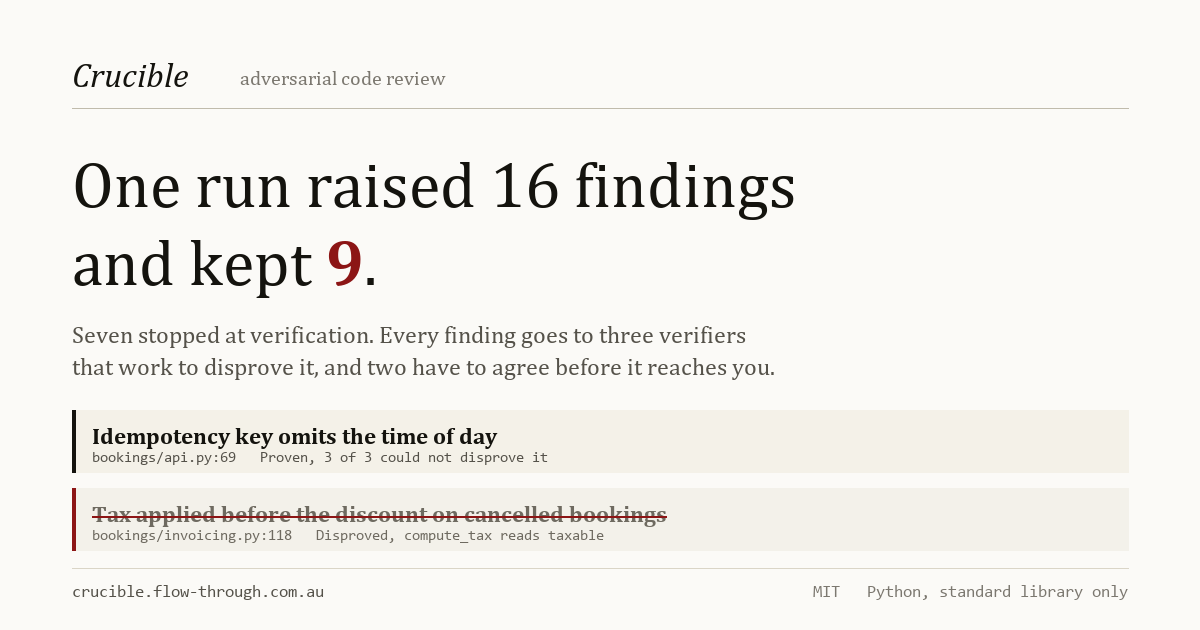
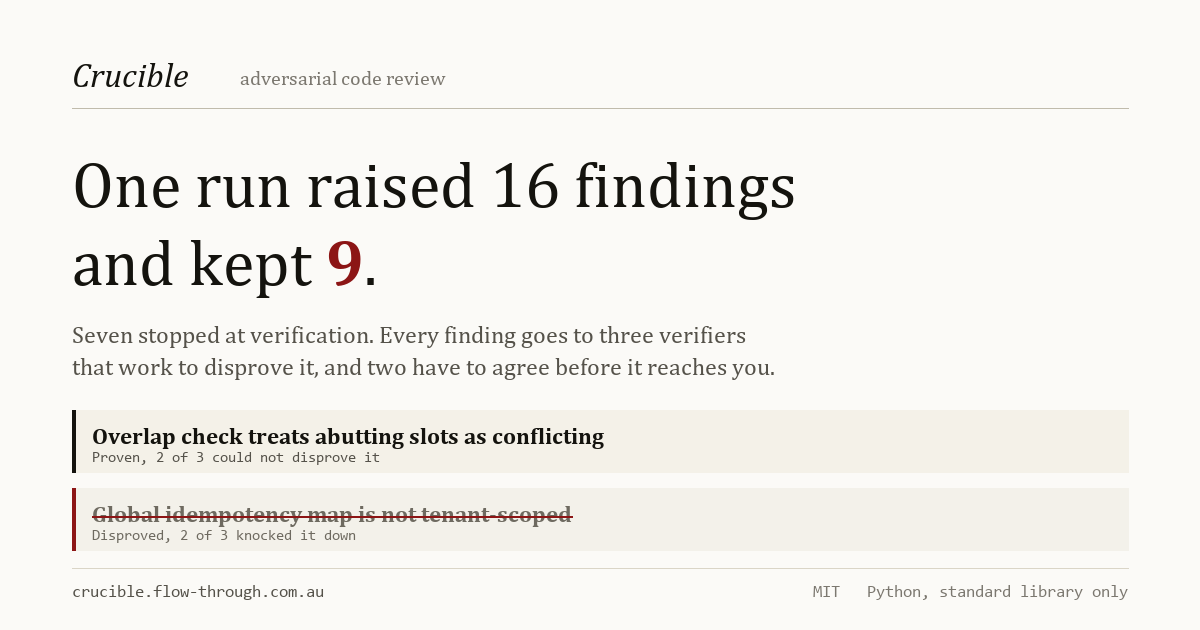
the scratch directory leaves the sandbox, and three money paths close
A preflight audit over the whole session found five things worth stopping for,
and one of them was the same defect this project is built to catch.

The policy refuses `python -c` because that flag, in its own words, reaches
past every other limit in it. Scratch lived at workspace/.crucible-scratch,
inside the tree run_tests is scoped to, so an agent could write a .py file and
ask the permitted interpreter to run it: reads outside the workspace, writes
past the size ceiling, edits to the code under review, and a socket, all
through a door the guard was not watching. Verified by running both forms
through the real policy. Scratch is now a sibling of the checkout, so
run_tests can only execute code that was already in it, and the answer key
carve-out stops being the only thing standing between a hunter and the
answers. Checks fail if scratch moves back inside.

POST /api/chat had no caller left after the chat pane retired, and in public
mode no session cookie is ever issued, so every request minted a fresh
identity with a fresh forty cent budget on the operator's key, and none of it
was booked against the daily ceiling. Both routes and the streaming handler
are gone. The module and its checks stay, so the capability is unexposed
rather than lost.

The per-run ceiling a visitor chose when attaching a key was stored, shown
back to them, and then replaced by the deployment default, because the run
request carries no figure of its own. Someone asking for one cent got a
[…]

Changed region(s): [[0.0617, 0.7841, 0.555, 0.8746], [0.0617, 0.6635, 0.5242, 0.754]]

diff --git a/web/index.html b/web/index.html
@@ -112,17 +112,17 @@
             <span><b>9</b> proven</span>
           </div>
           <div class="still-claim">
-            <span class="st">Idempotency key omits the time of day</span>
-            <span class="wh">bookings/api.py:69 &nbsp; high</span>
-            <span class="ru">Proven &nbsp;<i>3 of 3 could not disprove it</i></span>
+            <span class="st">Overlap check treats abutting slots as conflicting</span>
+            <span class="ru">Proven &nbsp;<i>2 of 3 could not disprove it</i></span>
           </div>
           <div class="still-claim dead">
-            <span class="st">Tax applied before the discount on cancelled bookings</span>
-            <span class="wh">bookings/invoicing.py:118 &nbsp; medium</span>
-            <span class="ru">Disproved &nbsp;<i>compute_tax reads taxable, not subtotal</i></span>
+            <span class="st">Global idempotency map is not tenant-scoped</span>
+            <span class="ru">Disproved &nbsp;<i>2 of 3 knocked it down</i></span>
           </div>
-          <figcaption id="still-cap">The recorded run, as the page shows it.
-            The struck line is a finding the verifiers took apart.</figcaption>
+          <figcaption id="still-cap">Two findings from that run, copied out of
+            <a href="https://github.com/BlakeR-M/crucible/tree/main/docs/evidence">its
+            published ledger</a> with the votes they got. The struck line is one
+            the verifiers took apart.</figcaption>
         </figure>
         <div id="notice-slot"></div>
         <form class="repo" id="repo" autocomplete="off">

diff --git a/crucible/server.py b/crucible/server.py
@@ -526,7 +526,16 @@ def start_run(task_key: str, repo_url: str | None = None,
         return None, (f"the daily ceiling of ${DAILY_CEILING_USD:.2f} is spent. "
                       f"It resets at midnight UTC. Attach a key of your own "
                       f"to run against a live model now.")
-    ceiling = byo_ceiling(ceiling_usd) if visitor else RUN_CEILING_USD
+    # The ceiling a visitor chose when attaching their key, since the run
+    # request carries no figure of its own. Without this fallback the stored
+    # number was shown back to them and then quietly replaced by the
+    # deployment default: someone asking for a one cent ceiling got a dollar,
+    # on their own key, while the page told them otherwise.
+    if visitor:
+        wanted = ceiling_usd if ceiling_usd not in (None, "") else visitor.get("ceiling_usd")
+        ceiling = byo_ceiling(wanted)
+    else:
+        ceiling = RUN_CEILING_USD
 
     def finish(reason: str, spent: float = 0.0) -> None:
         """Close a run out so nothing is left hanging.
@@ -831,17 +840,6 @@ class Handler(BaseHTTPRequestHandler):
             self._json(200, {"run_id": REGISTRY.newest()})
             return
 
-        if path == "/api/chat/opening":
-            from .chat import ChatAgent  # noqa: F401  (imported for its module)
-
-            agent = CHATS.get(self._sid())
-            self._json(200, {
-                "opening": agent.opening(),
-                "ceiling_usd": CHAT_CEILING_USD,
-                "spent_usd": round(agent.budget.spent_usd, 5),
-            })
-            return
-
         if path == "/api/tasks":
             self._json(200, {"tasks": [{"key": k, "label": v}
                                        for k, v in TASKS.items()],
@@ -920,24 +918,6 @@ class Handler(BaseHTTPRequestHandler):
             self._json(401, {"error": "not signed in"})
             return
 
-        if route.path == "/api/chat":
-            try:
-                payload = json.loads(raw.decode("utf-8")) if raw else {}
-            except json.JSONDecodeError:
-                self._json(400, {"error": "bad json"})
-                return
-            message = str(payload.get("message", "")).strip()
-            if not message:
-                self._json(400, {"error": "say something"})
-                return
-            # Bounded before it reaches a model. A visitor pasting a novel is
-            # an unbounded prompt on somebody else's key.
-            if len(message) > 2000:
-                self._json(413, {"error": "that message is too long"})
-                return
-            self._chat(self._sid(), message)
-            return
-
         if route.path == "/api/run":
             try:
                 payload = json.loads(raw.decode("utf-8")) if raw else {}
@@ -1006,54 +986,6 @@ class Handler(BaseHTTPRequestHandler):
         that somehow arrives without the random one still gets a conversation
         rather than an error, and a fresh string rather than a shared one."""
         return self._cookie("crucible_sid") or f"anon-{secrets.token_urlsafe(12)}"
-
-    def _chat(self, sid: str, message: str) -> None:
-        """One conversational turn, streamed as it happens.
-
-        The agent's tool calls and refusals reach the browser while it is still
-        thinking, which is most of the point: a visitor watching it decide to
-        go and read the run is watching the thing work, not waiting on a
-        spinner.
-        """
-        agent = CHATS.get(sid)
-        kind = CHATS.kind(sid)
-        redact = redactor_for(agent.provider)
-        CHATS.reap()
-        KEYS.reap()
-
-        self.send_response(200)
-        self.send_header("Content-Type", "text/event-stream; charset=utf-8")
-        self.send_header("Cache-Control", "no-cache, no-transform")
-        self.send_header("X-Accel-Buffering", "no")
-        self.send_header("Connection", "close")
-        self.close_connection = True
-        self.end_headers()
-
-        def push(event: dict) -> bool:
-            try:
-                event = redact.scrub_value(event)
-                self.wfile.write(f"data: {json.dumps(event)}\n\n".encode("utf-8"))
-                self.wfile.flush()
-                return True
-            except (BrokenPipeError, ConnectionResetError, OSError):
-                return False
-
-        spent_before = agent.budget.spent_usd
-        try:
-            for event in agent.stream(message):
-                if not push(event):
-                    return
-        except Exception as exc:  # noqa: BLE001 - the visitor must be told
-            push({"kind": "chat_error",
-                  "text": redact.scrub(f"{type(exc).__name__}: {exc}")[:300]})
-        finally:
-            if kind == "visitor":
-                KEYS.add_spend(sid, agent.budget.spent_usd - spent_before)
-            push({"kind": "chat_done",
-                  "spent_usd": round(agent.budget.spent_usd, 5),
-                  "ceiling_usd": CHAT_CEILING_USD,
-                  "provider_kind": kind,
-                  "session_spend_usd": KEYS.status(sid).get("spent_usd", 0.0)})
 
     def _stream(self, run_id: str) -> None:
         subscription = REGISTRY.subscribe(run_id)

diff --git a/crucible/providers.py b/crucible/providers.py
@@ -19,6 +19,7 @@ import os
 import threading
 import time
 import urllib.error
+import urllib.parse
 import urllib.request
 from dataclasses import dataclass, field
 from enum import Enum
@@ -108,11 +109,17 @@ RATES: dict[str, tuple[float, float]] = {
     "deepseek-v4-flash": (0.44, 1.32),
 
     # OpenRouter routes one model id across several upstream hosts at
-    # differing rates, so these are rounded up from the dearest seen.
+    # differing rates, and which host serves a given call is theirs to choose.
+    # These are the dearest route each id can land on, at standing rather than
+    # promotional rates. Taking the headline figure instead means pricing the
+    # discounted route and reserving a fraction of what the call can bill:
+    # google/gemini-3.7-flash advertises 0.375 on a discounted Vertex route
+    # while the same id also serves from AI Studio at four times that once the
+    # introductory rate lapses.
     "anthropic/claude-opus-5": (5.00, 25.00),
-    "deepseek/deepseek-v4-pro-0813": (1.19, 3.57),
-    "google/gemini-3.7-flash": (0.38, 1.88),
-    "qwen/qwen3.8-2.4t-a95b": (2.00, 6.00),
+    "deepseek/deepseek-v4-pro-0813": (1.32, 3.96),
+    "google/gemini-3.7-flash": (1.50, 7.50),
+    "qwen/qwen3.8-2.4t-a95b": (2.50, 7.50),
 }
 
 # Stand-ins that reach no vendor and bill nothing. Named explicitly, because
@@ -403,9 +410,20 @@ class OpenAIProvider:
     # trust. One transposed line in a config file, `metered = false` left over
     # from a local experiment above a base_url pointing back at a vendor, and
     # the only limit on the run is how long someone leaves it running.
-    BILLED_HOSTS = ("api.openai.com", "api.anthropic.com", "api.mistral.ai",
-                    "api.groq.com", "api.deepseek.com", "api.together.xyz",
-                    "openrouter.ai", "generativelanguage.googleapis.com")
+    #
+    # Every host in the registry is folded in automatically, because keeping a
+    # second hand-written list in step with it failed the first time it was
+    # tested: xAI was added to the shelf with its base URL and its own model
+    # table, and the guard never heard about it, so `metered = false` over
+    # api.x.ai was accepted and priced every call at zero.
+    BILLED_HOSTS = tuple(sorted({
+        "api.openai.com", "api.anthropic.com", "api.mistral.ai",
+        "api.groq.com", "api.deepseek.com", "api.together.xyz",
+        "openrouter.ai", "generativelanguage.googleapis.com",
+    } | {
+        (urllib.parse.urlsplit(spec.base_url).hostname or "").lower()
+        for spec in PROVIDERS.values()
+    }))
     BILLED_SUFFIXES = (".openai.azure.com", ".api.cognitive.microsoft.com")
 
     def _refuse_unmetered_billed_host(self) -> None:

diff --git a/tests/test_byok.py b/tests/test_byok.py
@@ -254,6 +254,24 @@ def validation_checks() -> None:
     check("two hundred stand-in calls stay clear of a 60 cent ceiling",
           tight.spent_usd == 0.0, f"spent {tight.spent_usd}")
 
+    # Declaring a run unmetered prices every call at zero, so BudgetExceeded
+    # can never fire and the ceiling is off completely. Every vendor the arena
+    # ships a base URL for has to be refused that declaration. The guard used
+    # to carry its own hand-written host list, and the first vendor added
+    # after it was written went missing from it.
+    from crucible.providers import OpenAIProvider as _Provider
+
+    unguarded = []
+    for name, spec in byok.PROVIDERS.items():
+        try:
+            _Provider("k" * 20, dict(spec["defaults"]),
+                      base_url=spec["base_url"], metered=False)
+            unguarded.append(name)
+        except ValueError:
+            pass
+    check("no vendor on the shelf can be declared unmetered",
+          not unguarded, str(unguarded))
+
     held = server.KEYS.get(sid)
     check("the table holds the key in memory with the session's expiry",
           held is not None and held["key"] == GOOD_KEY
@@ -298,6 +316,12 @@ def run_checks(tmp: Path) -> None:
           finished.get("run_id") == body["run_id"], str(finished.get("run_id")))
     check("and the ledger file sits under that name",
           (server.RUNS / f"{body['run_id']}.jsonl").is_file())
+    # Bound to what a whole run actually reported, rather than to the price of
+    # a hardcoded model name. The stand-in reaches no vendor, so a free run
+    # that books anything means the model name it settles under has drifted
+    # away from the free list and is being charged the table maximum again.
+    check("a stand-in run spends nothing, end to end",
+          finished["spend_usd"] == 0.0, str(finished["spend_usd"]))
 
     section("run: with a key, the visitor's provider")
     status, body = server.admit_key({"provider": "gemini", "api_key": GOOD_KEY}, sid, cookie)

diff --git a/tests/test_core.py b/tests/test_core.py
@@ -80,6 +80,33 @@ def policy_checks(tmp: Path) -> None:
     check("a tool with no path scope refuses a path outright",
           not Policy("p", {"ping": ToolRule()}).check("ping", {"path": str(work)}))
 
+    section("policy: an allowlisted binary cannot be handed new code to run")
+    # The policy refuses `python -c` because that flag reaches past every other
+    # limit in it. Writing a script into scratch and running it arrives at the
+    # same place, so scratch lives beside the checkout rather than inside the
+    # tree run_tests executes. Put scratch back under the workspace and these
+    # fail.
+    from crucible.tools import scratch_dir as _scratch_dir
+
+    runnable = review_policy(work, run_tests=True)
+    scratch = _scratch_dir(work)
+    check("scratch sits outside the workspace",
+          work not in scratch.parents and scratch != work, str(scratch))
+    check("the policy scopes writes to that same directory",
+          bool(runnable.check("write_scratch",
+                              {"path": str(scratch / "note.txt"), "content": "x"})))
+    check("a script written to scratch cannot then be run",
+          not runnable.check("run_tests",
+                             {"command": f'python "{scratch / "repro.py"}"'}))
+    check("and the refusal says the file is outside the workspace",
+          "workspace" in runnable.check(
+              "run_tests", {"command": f'python "{scratch / "repro.py"}"'}).reason)
+    check("writing into the checkout itself is still refused",
+          not runnable.check("write_scratch",
+                             {"path": str(work / "evil.py"), "content": "x"}))
+    check("the checkout's own tests still run",
+          bool(runnable.check("run_tests", {"command": "python -m pytest"})))
+
     section("policy: the answers are out of reach of the hunters")
     # The demo workspace carries the list of planted defects, and a hunter that
     # reads it scores full marks having found nothing. Removing the carve-out

diff --git a/crucible/tools.py b/crucible/tools.py
@@ -51,6 +51,26 @@ SUBPROCESS_ENV_KEEP = frozenset({
 SECRET_SUFFIXES = ("_KEY", "_TOKEN", "_SECRET", "_PASS", "_PASSWORD")
 
 
+def scratch_dir(workspace: Path) -> Path:
+    """Where an agent may write, which is beside the checkout and never in it.
+
+    This used to live at workspace/.crucible-scratch, inside the tree that
+    run_tests is scoped to, and that combination handed back every capability
+    the policy takes away. The policy refuses `python -c` because, as its own
+    comment says, that flag reaches past every other limit. Writing a .py file
+    into scratch and asking the permitted interpreter to run it arrives at the
+    same place by a door the guard was not watching: reads outside the
+    workspace, writes past the size ceiling, edits to the code under review,
+    and a socket.
+
+    A sibling directory keeps scratch writable and keeps it out of every
+    execution scope, so run_tests can only run code that was already in the
+    checkout. That is the grant the policy docstring describes.
+    """
+    workspace = Path(workspace).resolve()
+    return workspace.parent / (workspace.name + ".crucible-scratch")
+
+
 def _is_hidden_within(entry: Path, root: Path) -> bool:
     """Whether a path is hidden by its position inside the workspace.
 
@@ -154,7 +174,7 @@ class Toolbox:
         self.policy = policy
         self.ledger = ledger
         self.agent_id = agent_id
-        self.scratch = self.workspace / ".crucible-scratch"
+        self.scratch = scratch_dir(self.workspace)
         # Shared with every per-agent view, so the run's totals are the run's
         # and not just whatever the unused parent happened to do. Each agent
         # gets its own Toolbox but they are all one run, and a report that said

diff --git a/crucible/policy.py b/crucible/policy.py
@@ -55,6 +55,18 @@ PERMITTED_MODULES = {"pytest", "unittest", "nose2", "green"}
 SCORING_FILES = (".answer_key.json",)
 
 
+def _scratch_scope(workspace: Path) -> Path:
+    """The scratch directory, named here without importing tools.
+
+    tools imports policy, so policy cannot import tools back. The shape is
+    asserted against tools.scratch_dir by a check, which is what keeps the two
+    from drifting apart into a policy that scopes one directory while the
+    toolbox writes to another.
+    """
+    workspace = Path(workspace).resolve()
+    return workspace.parent / (workspace.name + ".crucible-scratch")
+
+
 def _as_list(value) -> list:
     """A list from whatever was recorded, refusing to iterate a bare string."""
     if value is None:
@@ -377,8 +389,12 @@ def review_policy(workspace: Path, *, run_tests: bool = True) -> Policy:
         "list_dir": ToolRule(path_scopes=[workspace]),
         "search": ToolRule(path_scopes=[workspace],
                            denied_names=list(SCORING_FILES)),
+        # Beside the checkout rather than inside it. Scratch within the tree
+        # that run_tests executes meant an agent could write a script and run
+        # it, which returns every capability this policy takes away. See
+        # tools.scratch_dir.
         "write_scratch": ToolRule(
-            path_scopes=[workspace / ".crucible-scratch"], max_bytes=200_000
+            path_scopes=[_scratch_scope(workspace)], max_bytes=200_000
         ),
     }
     if run_tests:

diff --git a/tests/test_cli.py b/tests/test_cli.py
@@ -34,6 +34,7 @@ sys.path.insert(0, str(Path(__file__).resolve().parent.parent))
 from crucible import config as cfg  # noqa: E402
 from crucible.ledger import GENESIS, Ledger, _digest  # noqa: E402
 from crucible.policy import Policy, review_policy  # noqa: E402
+from crucible.tools import scratch_dir  # noqa: E402
 from crucible.providers import (  # noqa: E402
     DEFAULT_BASE_URL, RATES, Budget, BudgetExceeded, OpenAIProvider, Tier,
 )
@@ -565,7 +566,7 @@ def regression_checks(tmp: Path) -> None:
     # A truncated payload leaves the path decidable, so the call is replayed
     # and only its size limit goes unchecked.
     led.append("tool_call", agent="h", tool="write_scratch",
-               args={"path": str(work2 / ".crucible-scratch" / "n.txt"),
+               args={"path": str(scratch_dir(work2) / "n.txt"),
                      "content": "<812 chars>"})
     led.append("run_finished", run_id="t1", raised=0, survived=0, spend_usd=0.0,
                halted="", agent_failures=0, agents_run=1, probe_held=True)
